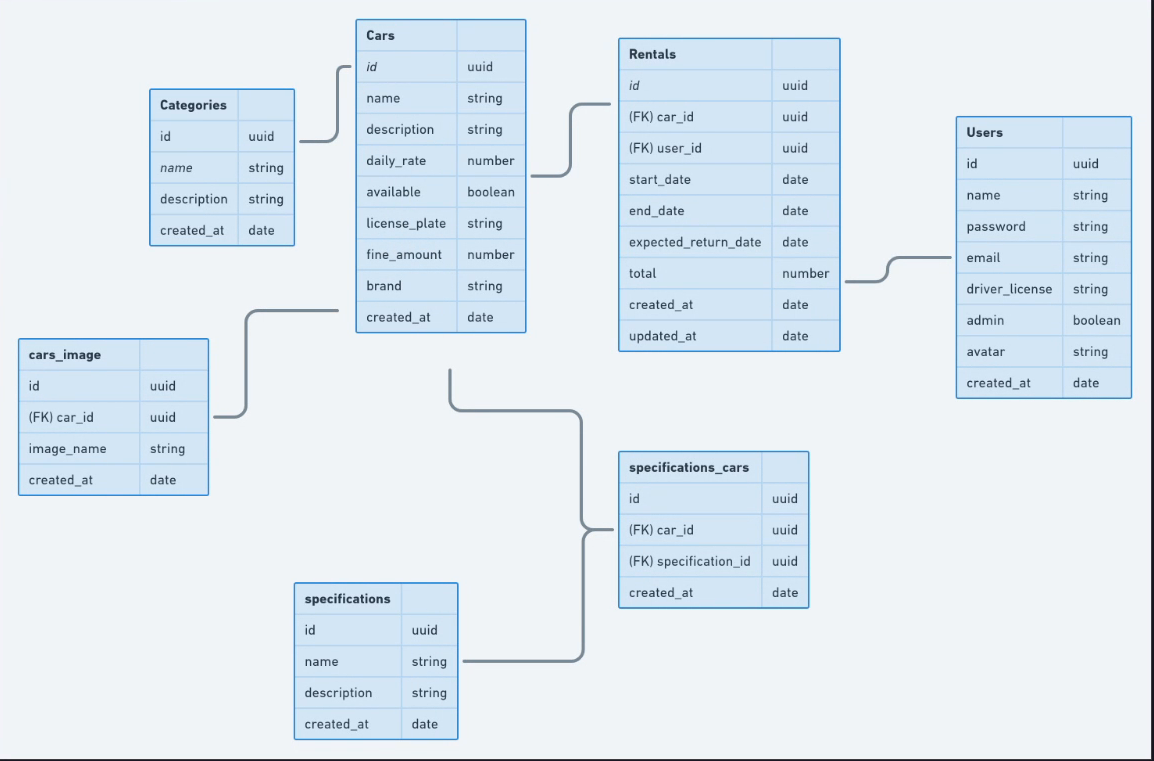
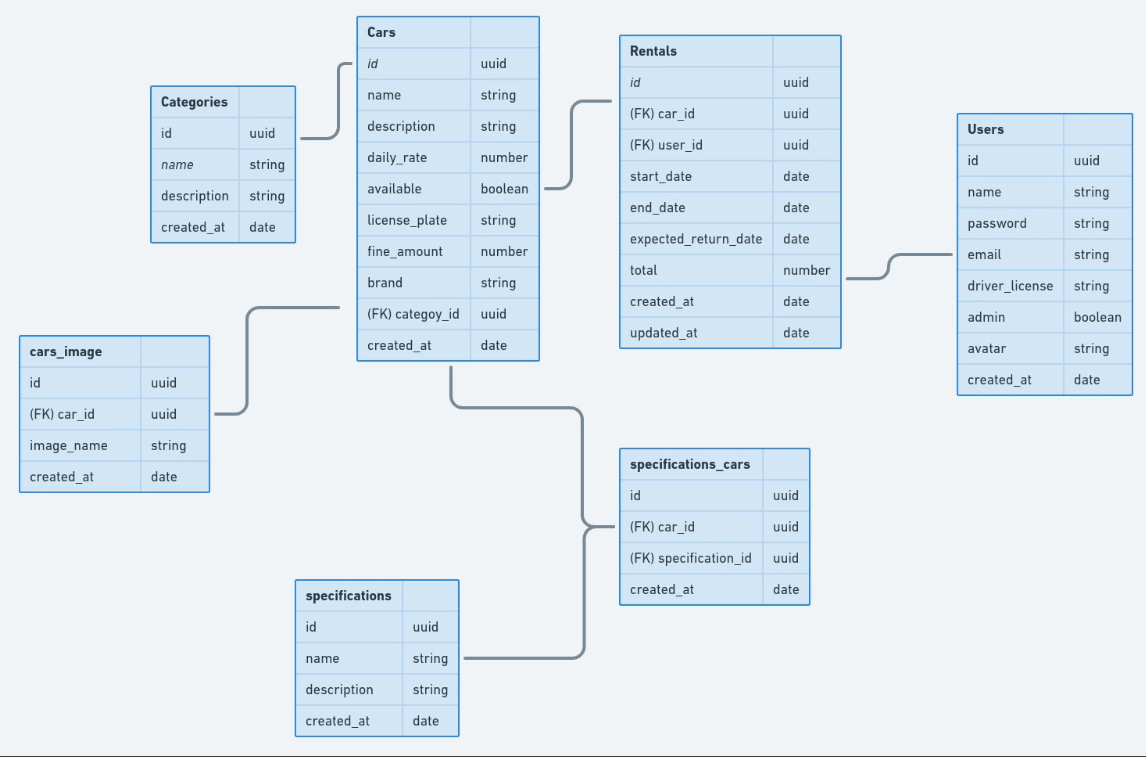
createCars migration created

diff --git a/src/shared/infra/typeorm/migrations/1617312725029-CreateCars.ts b/src/shared/infra/typeorm/migrations/1617312725029-CreateCars.ts
@@ -1,0 +1,70 @@
+import { MigrationInterface, QueryRunner, Table } from 'typeorm';
+
+export class CreateCars1617312725029 implements MigrationInterface {
+  public async up(queryRunner: QueryRunner): Promise<void> {
+    await queryRunner.createTable(
+      new Table({
+        name: 'cars',
+        columns: [
+          {
+            name: 'id',
+            type: 'uuid',
+            isPrimary: true,
+          },
+          {
+            name: 'name',
+            type: 'varchar',
+          },
+          {
+            name: 'description',
+            type: 'varchar',
+          },
+          {
+            name: 'daily_rate',
+            type: 'numeric',
+          },
+          {
+            name: 'available',
+            type: 'boolean',
+          },
+          {
+            name: 'license_plate',
+            type: 'varchar',
+          },
+          {
+            name: 'fine_amount',
+            type: 'numeric',
+          },
+          {
+            name: 'brand',
+            type: 'varchar',
+          },
+          {
+            name: 'category_id',
+            type: 'uuid',
+            isNullable: true,
+          },
+          {
+            name: 'created_at',
+            type: 'timestamp',
+            default: 'now()',
+          },
+        ],
+        foreignKeys: [
+          {
+            name: 'FKCategoryCar',
+            referencedTableName: 'categories',
+            referencedColumnNames: ['id'],
+            columnNames: ['category_id'],
+            onDelete: 'SET NULL',
+            onUpdate: 'SET NULL',
+          },
+        ],
+      })
+    );
+  }
+
+  public async down(queryRunner: QueryRunner): Promise<void> {
+    await queryRunner.dropTable('cars');
+  }
+}

diff --git a/src/shared/infra/http/server.ts b/src/shared/infra/http/server.ts
@@ -1,7 +1,6 @@
 import 'reflect-metadata';
 import '@shared/container';
 import '@shared/infra/typeorm';
-
 import express, { Request, Response } from 'express';
 import 'express-async-errors';
 import swaggerUi from 'swagger-ui-express';
